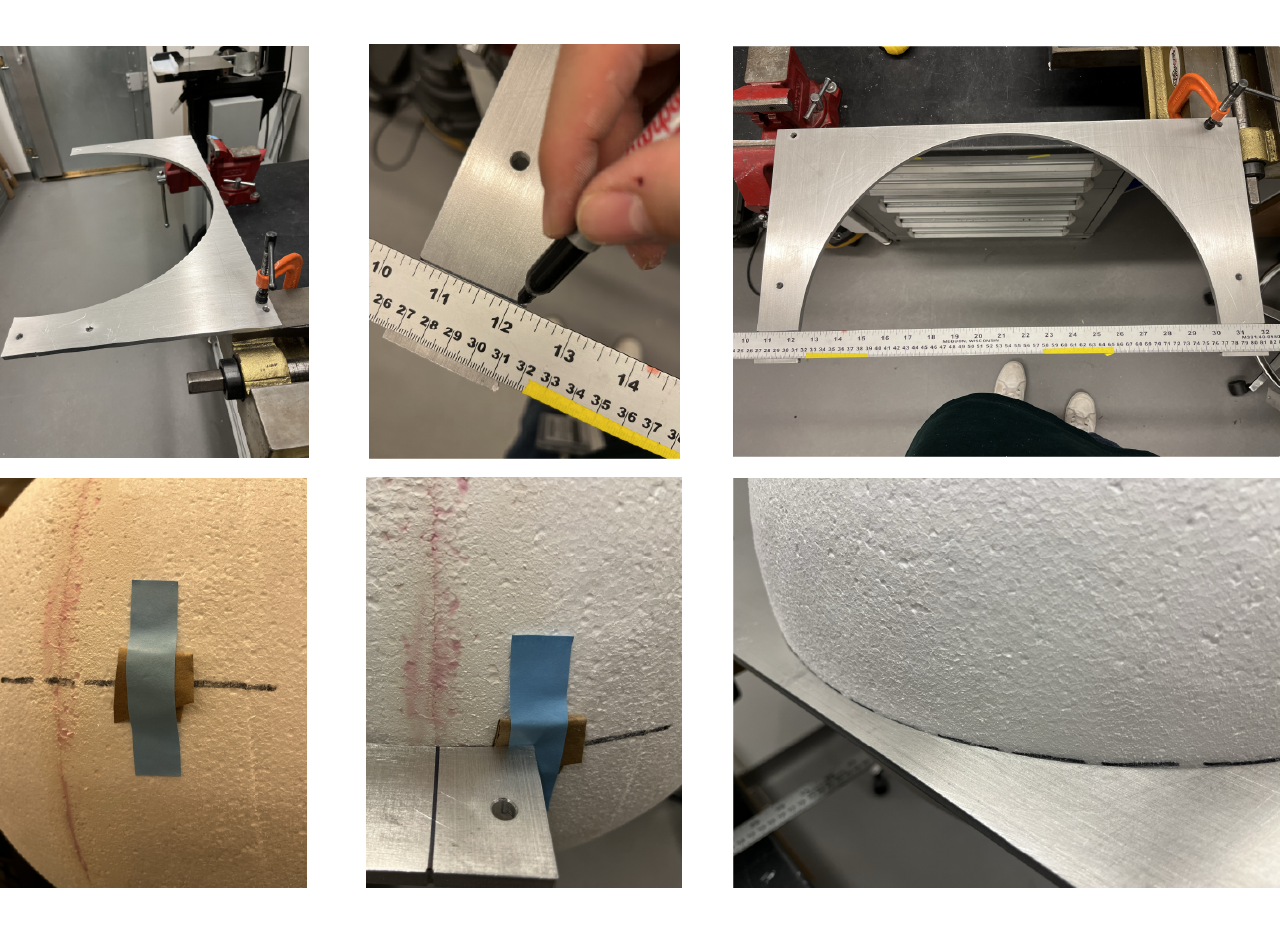
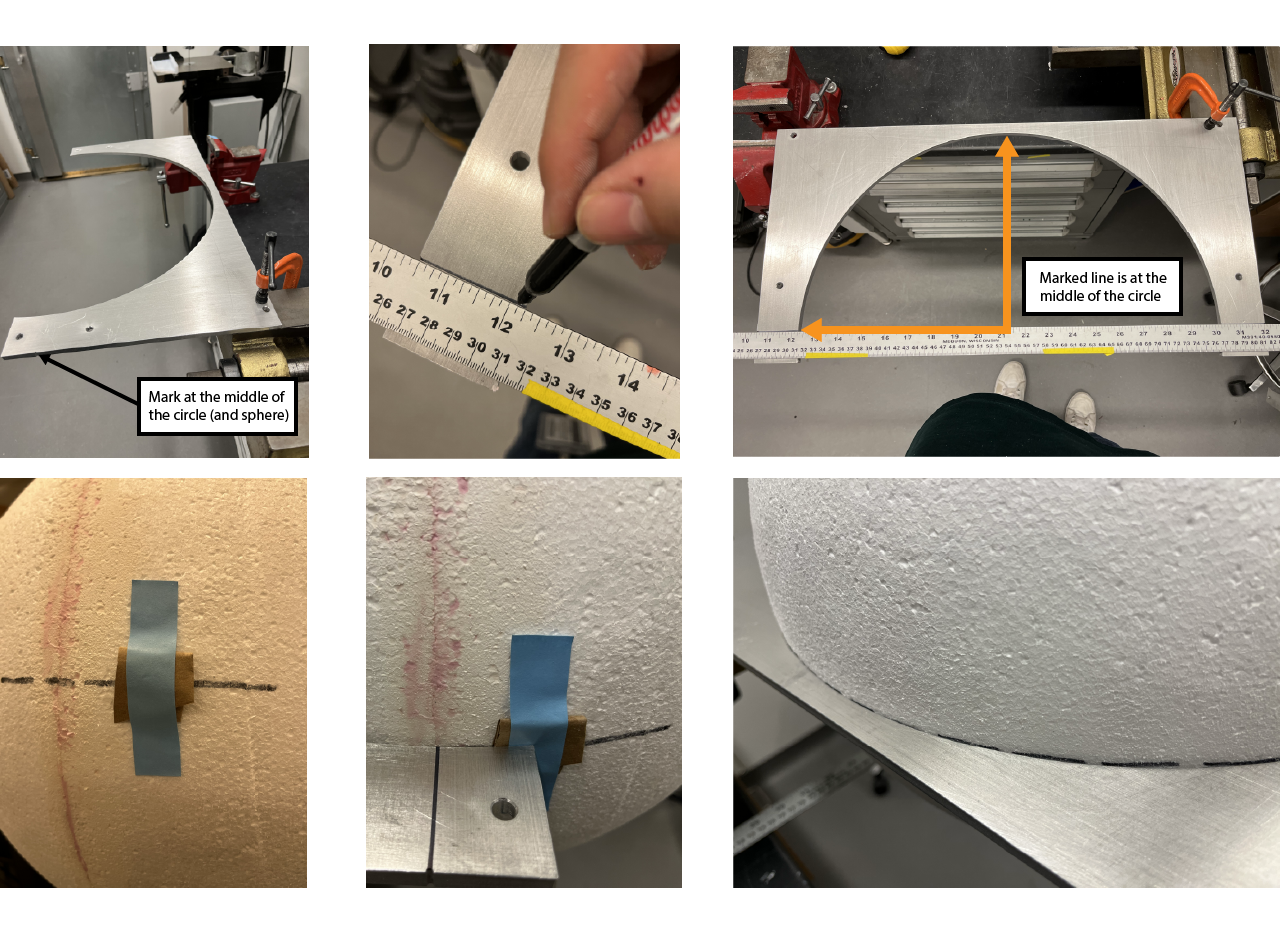
Update screen building information based on feedback

Changed region(s): [[0.625, 0.1554, 0.9375, 0.373], [0.0625, 0.4041, 0.25, 0.4662], [0.0312, 0.373, 0.0625, 0.4041]]

diff --git a/src/building/projection.md b/src/building/projection.md
@@ -74,7 +74,7 @@ We place the spherical mirror on an aluminum custom made base that is sent to a 
 
  ### Day 1 [time: ~3 hours].
 
- 1. If the balls are shipped in halfs, first measure and mark the equator in each of the half spheres. Place a mark at the bottom of the sphere at 9 inches and at 14 inches from one of the sides to the pole using either a tread marked or a soft plastic ruler. We use a laser level to project a straight line through both marks and draw a line with a sharpie.
+ 1. If the balls are shipped in halfs, first mark the equator in each of the half spheres. Use a thread to measure the outer diameter of the screen (should be around 18") and place a mark at the middle (or around 9"), place the thread at the bottom of the half sphere and mark at the sphere the joint of the thread and the middle (9") mark. We use a laser level to project a straight line through both marks and draw a line with a sharpie.
 
  <figure>
   <img src='./assets/images/projection/screen-building-1.png'>
@@ -92,7 +92,7 @@ We place the spherical mirror on an aluminum custom made base that is sent to a 
   <img src='./assets/images/projection/screen-building-3.png'>
  </figure>
 
- 4. Place the aluminum plate in a flat surface making sure is hanging with enough space to fit the screen. Use a sharpie to mark a straigth line by joining the marks in the aluminum plate as seen in the pictures. Place the screen in the plate, making sure to align the equator with the plate and the meridian (the mark where the half spheres where joined) with the plate markers.
+ 4. Place the aluminum plate in a flat surface making sure is hanging with enough space to fit the screen. Use a sharpie to mark a straigth line by joining the marks in the aluminum plate (placed at the middle of the circle) as seen in the pictures. Place the screen in the plate, making sure to align the equator with the plate and the meridian (the mark where the half spheres where joined) with the plate marked line.
 
     ::: tip
     Sometimes the diameter of the balls is different from the plate, you can use some paper or carboard and tape it to fill the space between the screen and the plate for it to hang properly.
